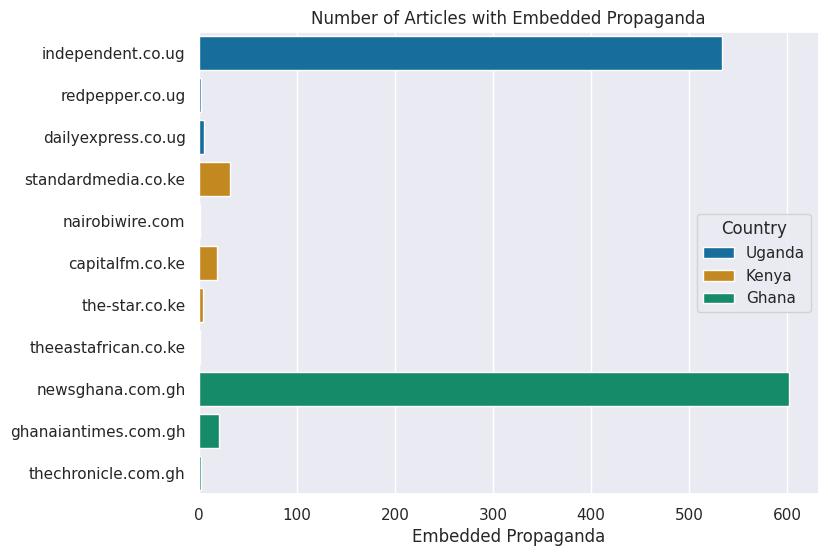
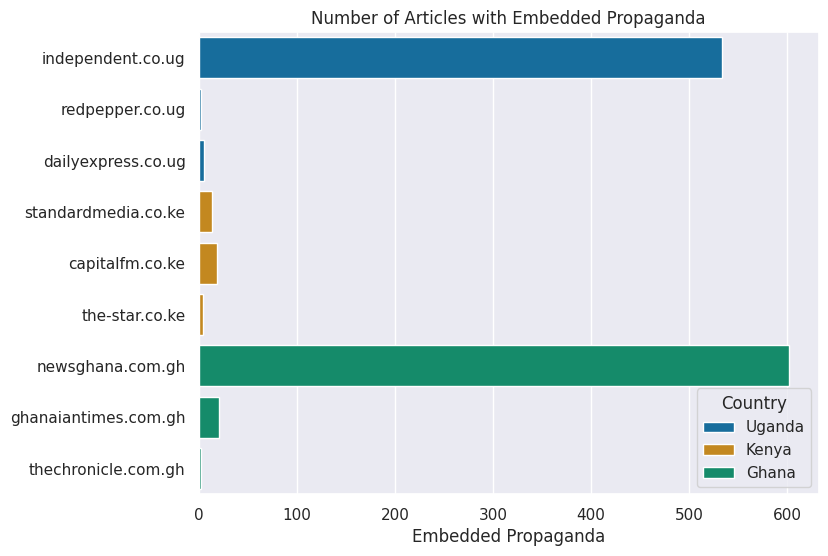
latest updates for Kenya and Uganda

diff --git a/README.md b/README.md
@@ -87,7 +87,7 @@ The percentage of EP (i.e., total number of EP divided by number of articles we 
 
 ![Percentage of Embedded Propaganda](https://github.com/doublethinklab/embedded-propaganda-africa/blob/main/Figures/percent_ep.png?raw=true)
 
-For the top-3 sites, the volume over the period of study is as follows:
+For the top-2 sites, the volume over the period of study is as follows:
 
 ![Percentage of Embedded Propaganda Types](https://github.com/doublethinklab/embedded-propaganda-africa/blob/main/Figures/top3_over_time.png?raw=true)
 
